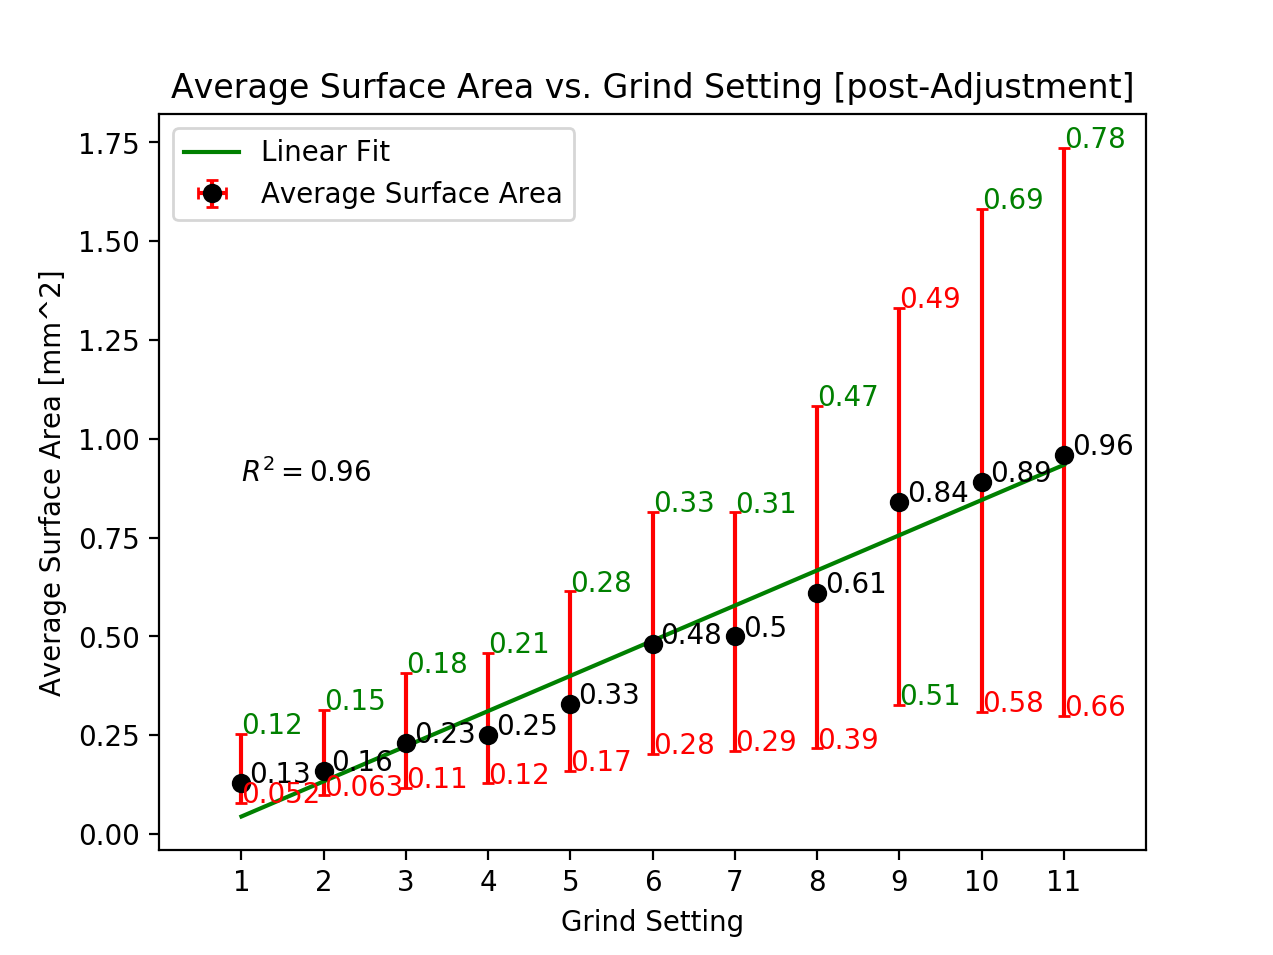
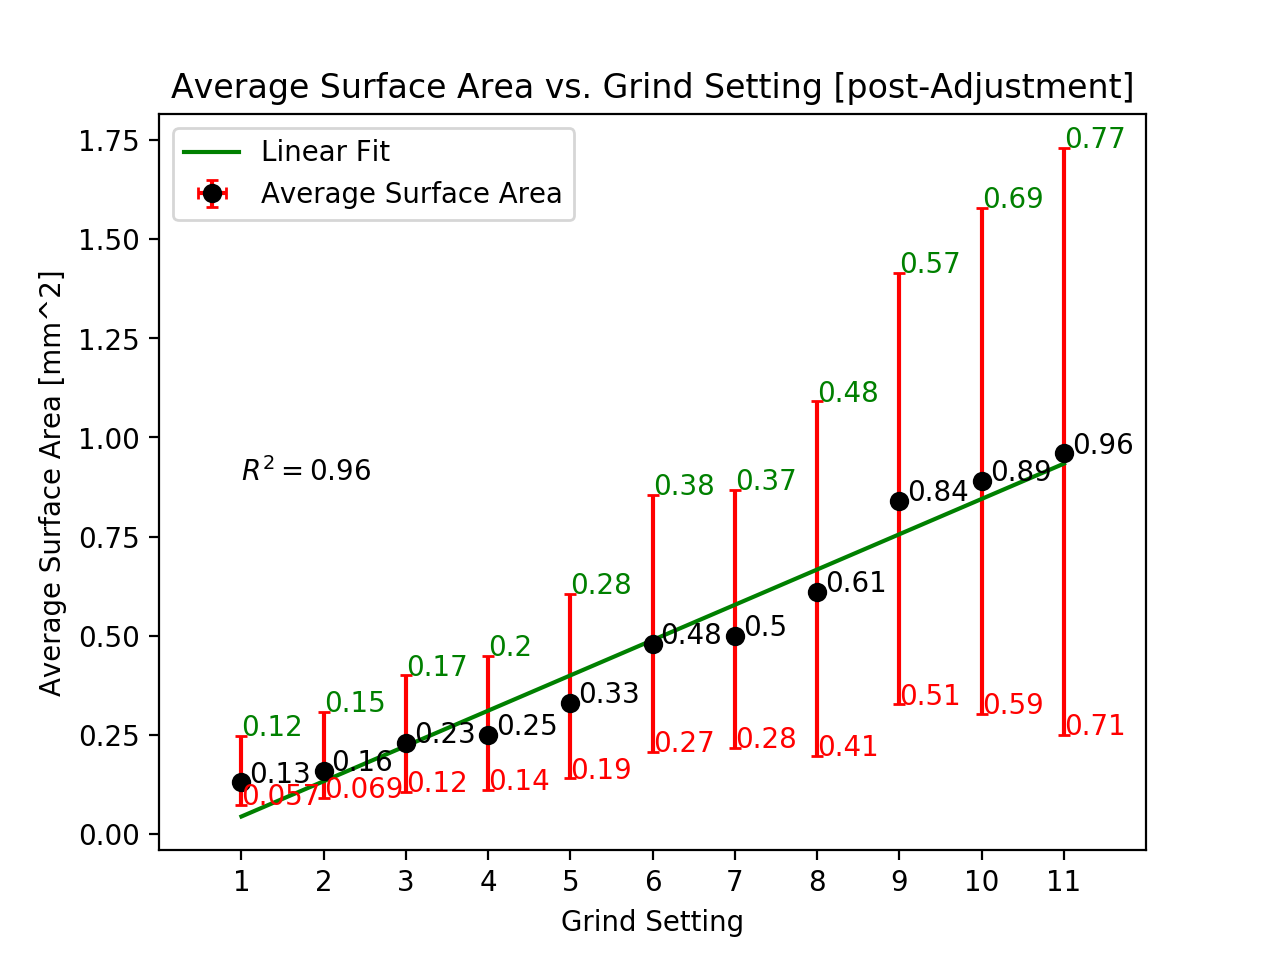
removed a few redundant lines and added more comments

diff --git a/grinderAnalysis.py b/grinderAnalysis.py
@@ -12,7 +12,6 @@ import errorCalc; from errorCalc import *
 def main(N,preOrPost,dataPath,smallestIncrement,coffeeCellSize,whichInformation):
 
     ##### Extract Data from .csv files #####
-
     # Loop through each grind setting
     grindSetting=np.arange(1,N+1)
     for a in range(1,N+1): # need to start at 1 because filenames are setting1 - settingEnd
@@ -28,33 +27,26 @@ def main(N,preOrPost,dataPath,smallestIncrement,coffeeCellSize,whichInformation)
         # data for grind setting 'a' can be retrieved as parameter[a]
         dataArray = np.array(pd.read_csv("{}/setting{}.csv".format(dataPath,a)))
 
-        pixel_scale = dataArray[:,6]
-        surfaces = dataArray[:,1]/pixel_scale**2
-        volumes = dataArray[:,5]/pixel_scale**3
-        attainable_masses = attainableMass.attainable_mass_simulate(volumes)
-        data_weights = surfaces
-        weights = np.maximum(np.ceil(attainable_masses/(coffeeCellSize/1e3)**3),1)
-        surfaces_average = np.sum(surfaces*weights)/np.sum(weights)
-
+        # retrieve error values from exterior function
         epos,eneg = errorCalc.posNegError(dataArray,whichInformation)
 
+        # append value 1 sigma positive and 1 sigma negative the average value calculated above
         stdUpper.append(epos)
         stdLower.append(eneg)
 
 
     ##### Information To Plot #####                
+    # Details which value the user wants to view and which units to use in regression values as well as on plots
     print()
     dataTypes=[avgDiam, stdDiam, avgSurf, stdSurf]
     def dataType(type):
-        global data, dataError, pltTitle, units
+        global data, pltTitle, units
         if type == "d":
             data = dataTypes[0]
-            dataError = dataTypes[1]
             pltTitle = "Average Diameter"
             units = "mm"
         elif type == "s":
             data = dataTypes[2]
-            dataError = dataTypes[3]
             pltTitle = "Average Surface Area"
             units = "mm^2"
         return data, dataError
@@ -66,6 +58,7 @@ def main(N,preOrPost,dataPath,smallestIncrement,coffeeCellSize,whichInformation)
         settingAdjustment.append(data[b+1] - data[b])
     avgAdjustment = np.sum(settingAdjustment)/len(settingAdjustment)
 
+    # Print the values calculated above
     print()
     print("-----------------------------------------------")
     print("---------Grinder Adjustment Parameters --------")
@@ -80,12 +73,19 @@ def main(N,preOrPost,dataPath,smallestIncrement,coffeeCellSize,whichInformation)
     # Perform all linear-regression related procedures
     popt, pcov = curve_fit(funcLinear, grindSetting, data, maxfev=2000) # the regression
     perr = np.sqrt(np.diag(pcov)) # error in the regression
+
+    # calculate R^2 value
     residuals = np.sum((data - funcLinear(grindSetting,*popt))**2)
     variance = np.sum ((data - np.mean(data))**2)
     r_squared = 1 - (residuals/variance)
-    plt.plot(grindSetting, funcLinear(grindSetting, *popt), label="Linear Fit", color='green') # plots the regression on the plot
+
+    # Plot the regression line on the data plot
+    plt.plot(grindSetting, funcLinear(grindSetting, *popt), label="Linear Fit", color='green')
 #    plt.text(grindSetting[0],data[-1],r'$Equation\ of\ Linear\ Fit: y={:.2}x +({:.2})$'.format(popt[0],popt[1])) # generate equation of fit on figure
-    plt.text(grindSetting[0],data[9],r'$R^2={:.2}$'.format(r_squared)) # generate R^2 on figure
+
+    # Plot the R^2 value on the data plot
+    plt.text(grindSetting[0],data[9],r'$R^2={:.2}$'.format(r_squared))
+    # Print the regression parameters 
     print()
     print("------------- Fit Parameters ------------")       
     print("\n Slope = {:.2} +/- {:.2}".format(popt[0],perr[1]))
@@ -97,12 +97,16 @@ def main(N,preOrPost,dataPath,smallestIncrement,coffeeCellSize,whichInformation)
     ##### Plotting #####
     plt.title("{} vs. Grind Setting [{}-Adjustment]".format(pltTitle,preOrPost))
     plt.xlabel("Grind Setting")
+    # Plot sizing
     plt.xlim([0,N+1])
     plt.xticks(ticks=grindSetting)
     plt.ylabel("{} [{}]".format(pltTitle,units))
 
+    # Plot the upper and lower standard deviation values calulated in epos and eneg
     plt.errorbar(grindSetting,data, fmt='o', color='black', ecolor='red', capsize=2, label='{}'.format(pltTitle), xerr=smallestIncrement/2, yerr=[stdLower,stdUpper])
 
+    # Annotate the values found in the data and the positive and negative 1 sigma
+    # The larger error side (boulders or fines) are labeled green (helps visually distinguish skewness of data)
     for i in range(0,N):
 
         plt.annotate(data[i],(grindSetting[i]+.1*max(data),data[i]), color='black')
@@ -117,5 +121,6 @@ def main(N,preOrPost,dataPath,smallestIncrement,coffeeCellSize,whichInformation)
             plt.annotate("{:.2}".format(stdLower[i]),(grindSetting[i],data[i]-stdLower[i]), color='red', label="error")
 
     plt.legend()
+    # Save the figure in the $PWD 
     plt.savefig('{}Adjustment{}Plot.png'.format(preOrPost,pltTitle), dpi=199)
     plt.show()

diff --git a/errorCalc.py b/errorCalc.py
@@ -9,6 +9,7 @@ from scipy import stats as stats
 import attainableMass
 import definitions
 
+# This code is directly taken from a portion of J Gagne's code
 
 def posNegError(data,whichInformation):
 
@@ -20,25 +21,23 @@ def posNegError(data,whichInformation):
     default_bin_inflate = 1
     hist_color=[147, 36, 30]
 
+    # convert the raw data into physical values 
     surfaces = data[:,1]/scale**2
     volumes = data[:,5]/scale**3
-    attainable_masses = attainableMass.attainable_mass_simulate(volumes)
-    weights = np.maximum(np.ceil(attainable_masses/(coffee_cell_size/1e3)**3),1)
-
     diameter = 2*np.sqrt(data[:,4]*data[:,3])/scale
-    diamWeight = np.max(np.ceil(attainable_masses/(coffee_cell_size/1e3)**3))
-    diamAverage = np.sum(diameter*diamWeight/np.sum(diamWeight))
+    attainable_masses = attainableMass.attainable_mass_simulate(volumes)
 
-    data_average = np.sum(surfaces*weights)/np.sum(weights)
-    data_stddev = attainableMass.weighted_stddev(surfaces,weights,frequency=True,unbiased=True)
+    data_weights = np.maximum(np.ceil(attainable_masses/(coffee_cell_size/1e3)**3),1) 
+
+    # generally how to calculate the average and std_dev value for a given stat
+#    data_average = np.sum(data*data_weights)/np.sum(data_weights)
+#    data_stddev = attainableMass.weighted_stddev(data,data_weights,frequency=True,unbiased=True)
 
     ##### This is stuff for plotting a histogram #####
     if whichInformation == "d":
         data = diameter
-        data_weights = diameter
     elif whichInformation == "s":
         data = surfaces
-        data_weights = surfaces
 
     #Read x range from internal variables
     xmin = np.nanmin(data)

diff --git a/attainableMass.py b/attainableMass.py
@@ -10,9 +10,11 @@ from scipy import stats as stats
 import matplotlib.pyplot as plt
 
 
+# This function weights larger particles higher so long as there is more accessible surface are for extraction
 def attainable_mass_simulate(volumes):
         
         #This could be done better analytically
+        #100nm water penetration depth limit
         depth_limit = 0.1 #mm
         
         radii = (3.0/4.0*volumes/np.pi)**(1/3)
@@ -24,6 +26,7 @@ def attainable_mass_simulate(volumes):
         
         return reachable_volumes
 
+# Generic weighted standard deviation function
 def weighted_stddev(data, weights, frequency=False, unbiased=True):
         
         #Calculate the bias correction estimator

diff --git a/definitions.py b/definitions.py
@@ -12,6 +12,3 @@ def funcLinear(xaxis,slope,intercept):
 
 def funcQuad(xaxis,a,b,c):
     return a*xaxis**2+b*xaxis+c
-
-
-
